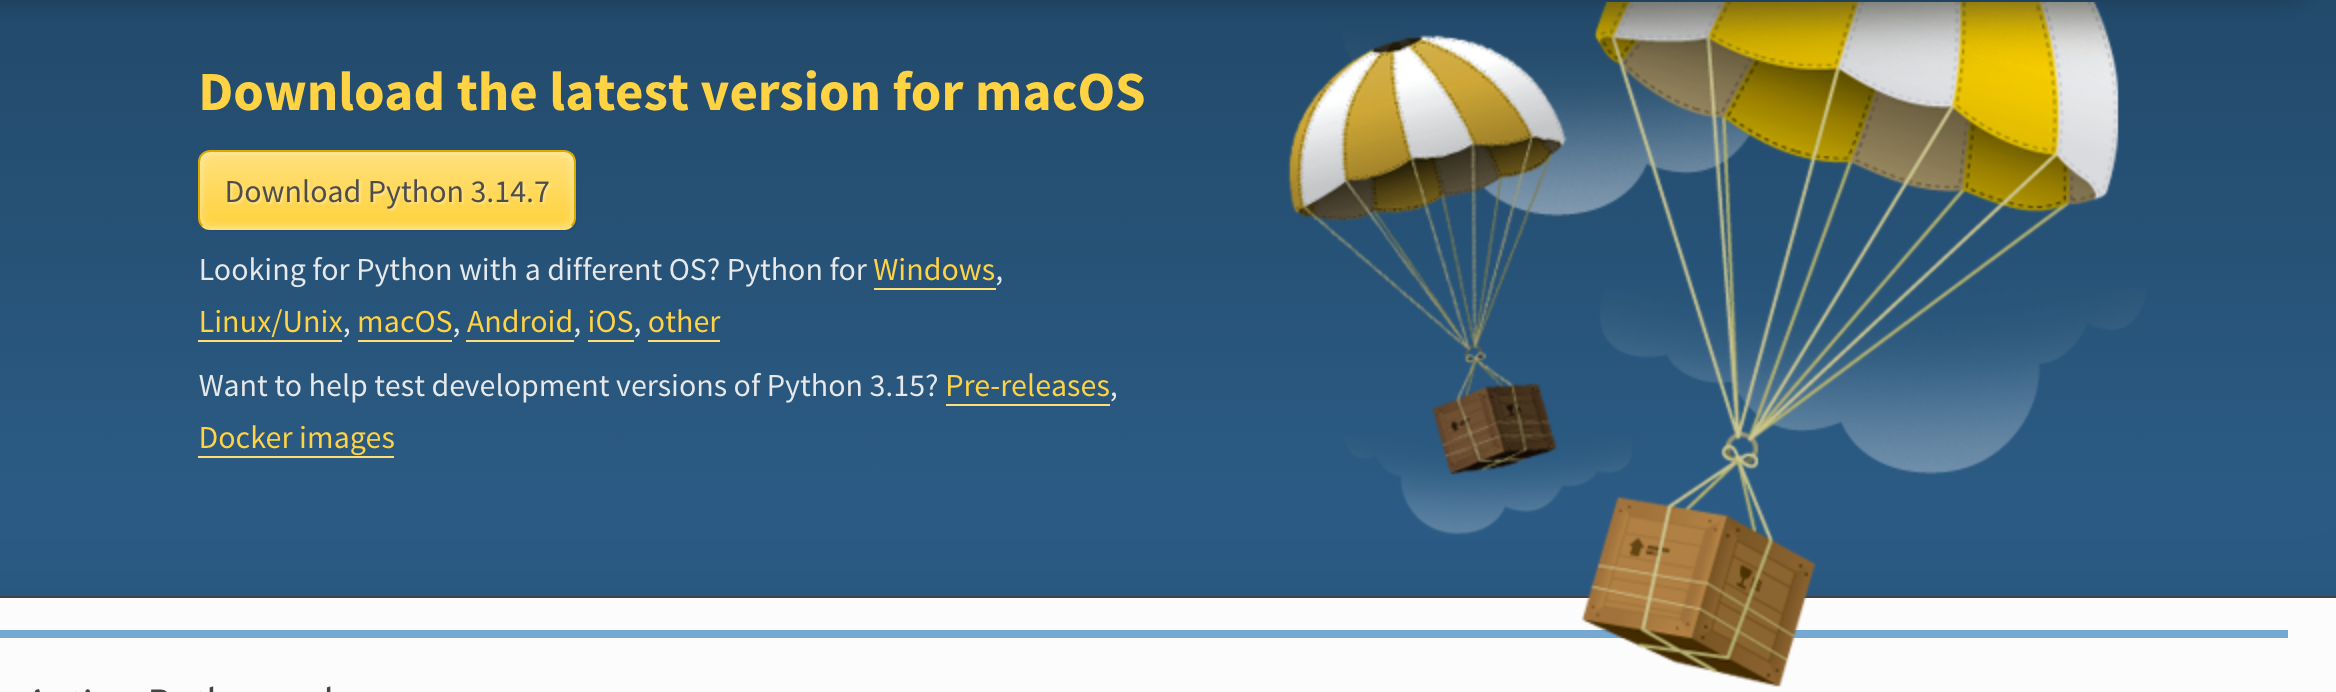
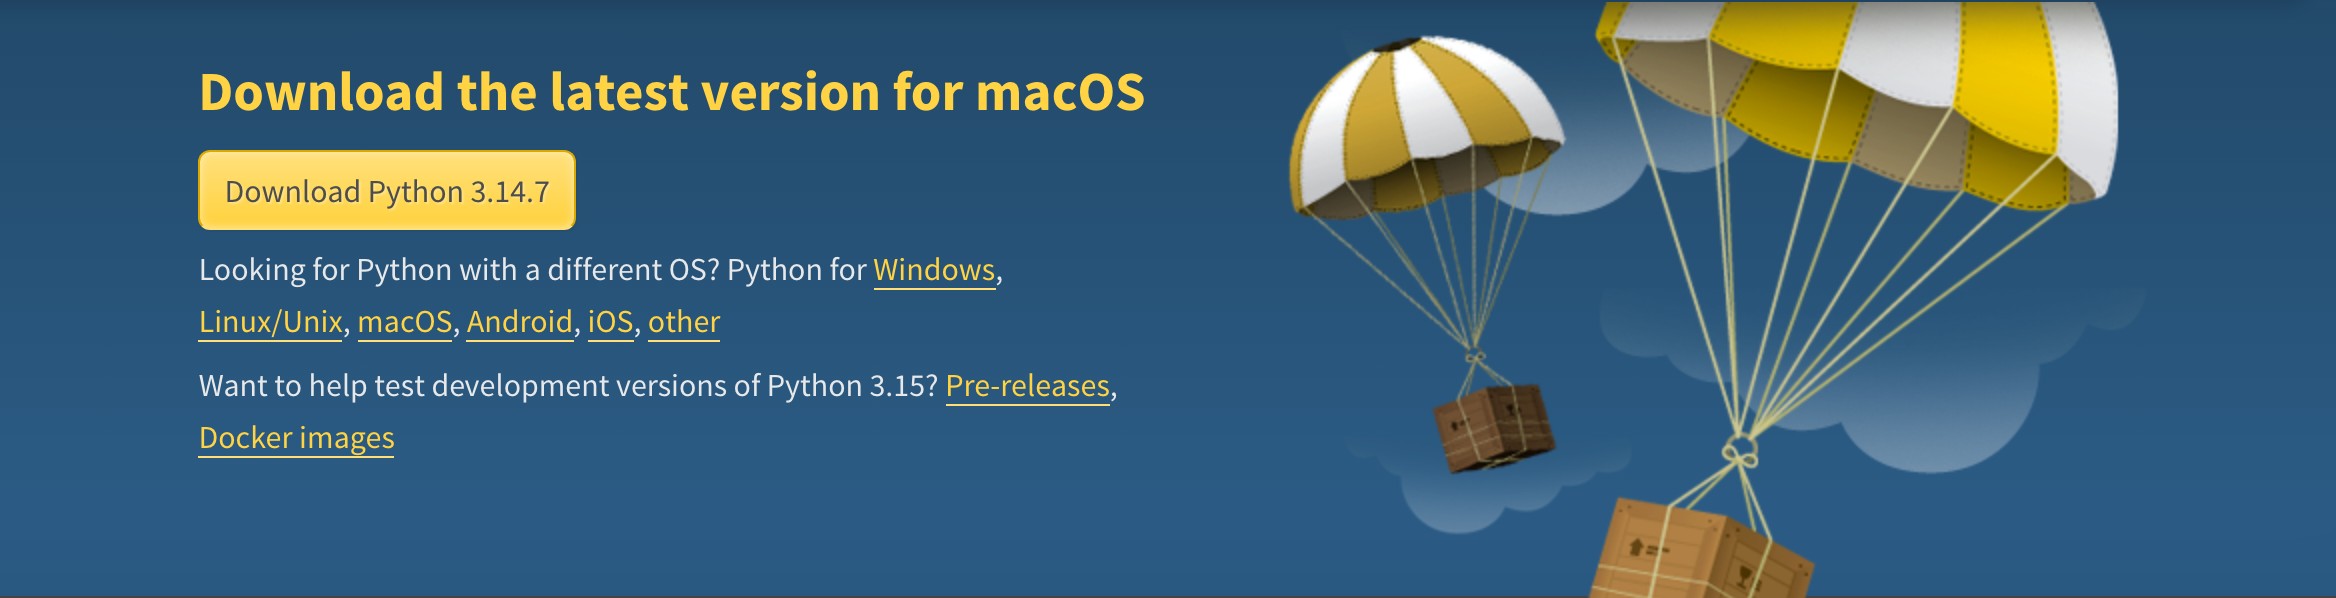
Глава 0: номера на снимке и целая фраза в блоке «Осторожно»
Стили для номеров поверх снимка не попали в прошлый коммит: styles.css
лежит в корне, а в индекс ушла только папка главы. На сайте номера
выпадали из кадра и печатались строкой «1 2 3 4 5» под картинкой.

Заодно правило .margin-note b ловило любой <b> внутри блока, не только
заголовок. Из-за этого выделение «Add python.exe to PATH» посреди фразы
превращалось в отдельную строку капслоком и разрывало предложение
на «Если галочку» и «вы пропустили». Теперь правило действует только
на прямого потомка — заголовок блока.

Мелочи: номер 5 сдвинут ровно на строку состояния, у снимка
python.org обрезана белая полоса под синим блоком.

diff --git a/styles.css b/styles.css
@@ -255,6 +255,11 @@ figure.illustration img {
   max-height: 520px;
   object-fit: contain;
 }
+/* Вертикальный снимок (панель, список) при ширине колонки упирается
+   в max-height, и object-fit оставляет белые поля по бокам. Такому кадру
+   задаём ширину по содержимому и снимаем ограничение высоты. */
+figure.illustration--narrow { max-width: 480px; margin-inline: auto; }
+figure.illustration--narrow img { max-height: none; }
 figure.illustration figcaption {
   padding: 9px 14px;
   border-top: 2px solid var(--ink);
@@ -263,6 +268,37 @@ figure.illustration figcaption {
   font: 600 10px/1.4 var(--pixel);
   letter-spacing: 1px;
   text-transform: uppercase;
+}
+
+/* ── Номера поверх снимка ────────────────────────────────────
+   Когда текст разбирает снимок по пунктам, номер должен стоять
+   на самом элементе: подпись «слева внизу» читатель сопоставляет
+   с экраном дольше, чем цифру на нужной панели.
+   Координаты заданы в процентах от кадра, поэтому пропорция
+   картинки в разметке должна совпадать с пропорцией файла. */
+.shot {
+  position: relative;
+  line-height: 0;
+}
+.shot img { display: block; width: 100%; }
+.shot__pin {
+  position: absolute;
+  z-index: 2;
+  transform: translate(-50%, -50%);
+  min-width: 22px;
+  height: 22px;
+  padding: 0 5px;
+  display: grid;
+  place-items: center;
+  background: var(--blue);
+  color: #fff;
+  border: 2px solid #fff;
+  border-radius: 3px;
+  font: 700 12px/1 var(--mono, ui-monospace, monospace);
+  box-shadow: 0 2px 6px rgba(2, 8, 53, .45);
+}
+@media (max-width: 600px) {
+  .shot__pin { min-width: 18px; height: 18px; font-size: 10px; border-width: 1px; }
 }
 
 /* ── Схема: рисованное объяснение механизма ──────────────────── */
@@ -320,7 +356,10 @@ figure.viz figcaption {
   border-bottom: 2px solid var(--rule);
   max-width: 74ch;
 }
-.margin-note b {
+/* Заголовок блока — только прямой потомок. Без «>» правило ловило и
+   выделения внутри абзаца: «Add python.exe to PATH» посреди фразы
+   становилось отдельной строкой капслоком и разрывало предложение. */
+.margin-note > b {
   display: block;
   margin-bottom: 6px;
   font: 600 10px/1.3 var(--pixel);
@@ -330,7 +369,7 @@ figure.viz figcaption {
 }
 .margin-note p:last-child { margin-bottom: 0; }
 .margin-note--warn { border-left-color: #D7541F; }
-.margin-note--warn b { color: #D7541F; }
+.margin-note--warn > b { color: #D7541F; }
 
 /* ── Таблицы ─────────────────────────────────────────────────── */
 .table-scroll { overflow-x: auto; margin: 22px 0; }

diff --git a/temy/00-vs-code/index.html b/temy/00-vs-code/index.html
@@ -166,7 +166,7 @@
             <span class="shot__pin" style="left:16%;top:76%">2</span>
             <span class="shot__pin" style="left:64%;top:44%">3</span>
             <span class="shot__pin" style="left:80%;top:82%">4</span>
-            <span class="shot__pin" style="left:20%;top:96.5%">5</span>
+            <span class="shot__pin" style="left:20%;top:97.5%">5</span>
           </div>
           <figcaption>Окно VS&nbsp;Code · пять зон, с которыми мы работаем</figcaption>
         </figure>
